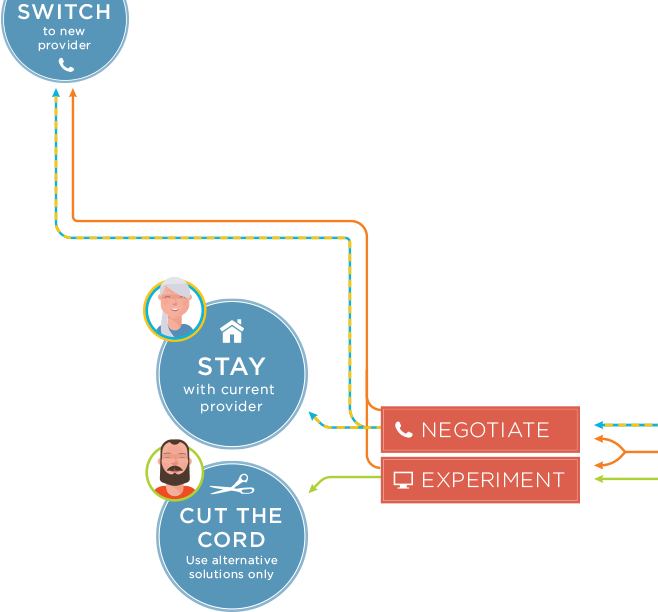
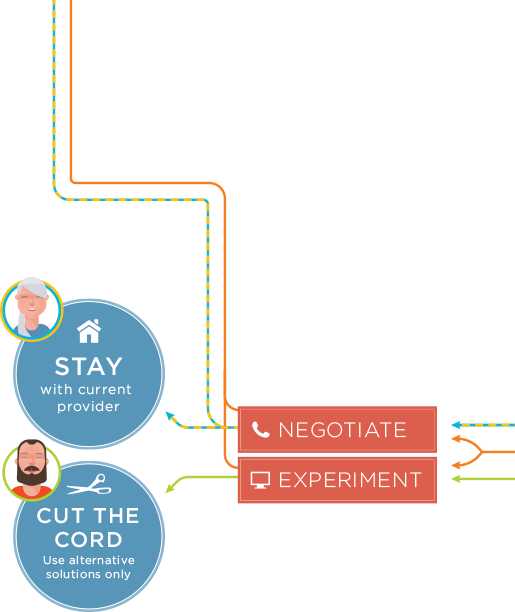
Add Hisp to S4 / Update left paths img S4

Changed region(s): [[0.0, 0.0, 0.9942, 1.0]]

diff --git a/assets/css/application.css b/assets/css/application.css
@@ -288,7 +288,7 @@ em {
 }
 
 [class*="arrow-thinking-"] {
-  background: url('/assets/images/arrows.svg?1411504870') no-repeat;
+  background: url('/assets/images/arrows.svg?1411505143') no-repeat;
   width: 31px;
   height: 11px;
 }
@@ -1580,9 +1580,9 @@ a {
   position: absolute;
   top: 0;
   right: 0;
-  width: 658px;
+  width: 515px;
   height: 612px;
-  background: url('/assets/images/paths-circles-s4.png?1408657348') no-repeat;
+  background: url('/assets/images/paths-circles-s4.png?1411505364') no-repeat;
 }
 
 .stage-4 .triggers {

diff --git a/assets/sass/sections/_stage-4.scss b/assets/sass/sections/_stage-4.scss
@@ -7,7 +7,7 @@
   position: absolute;
   top: 0;
   right: 0;
-  width: 658px;
+  width: 515px;
   height: 612px;
   background: $paths-circles-s4 no-repeat;
 }

diff --git a/views/stage-4.php b/views/stage-4.php
@@ -46,6 +46,7 @@
           <li data-segment="flexibles"><span class="arrow-thinking-2"></span><span class="label">Flexibles:</span> Experiment with alternative solutions in an effort to cut the cord and use only alternative options</li>
           <li data-segment="indulgers"><span class="arrow-thinking-3"></span><span class="label">Indulgers:</span> Unlikely to Experiment or Negotiate, due to higher income and more complacency</li>
           <li data-segment="traditionals"><span class="arrow-thinking-4"></span><span class="label">Traditionals & Practicals:</span> Negotiate with current provider in an effort to secure a rate reduction</li>
+          <li data-segment="hispanics"><span class="arrow-thinking-5"></span><span class="label">Hispanics:</span> Progress directly to switch, no efforts to resolve situation with existing provider or experiment with cord cutting</li>
         </ul>
       </div>
 
